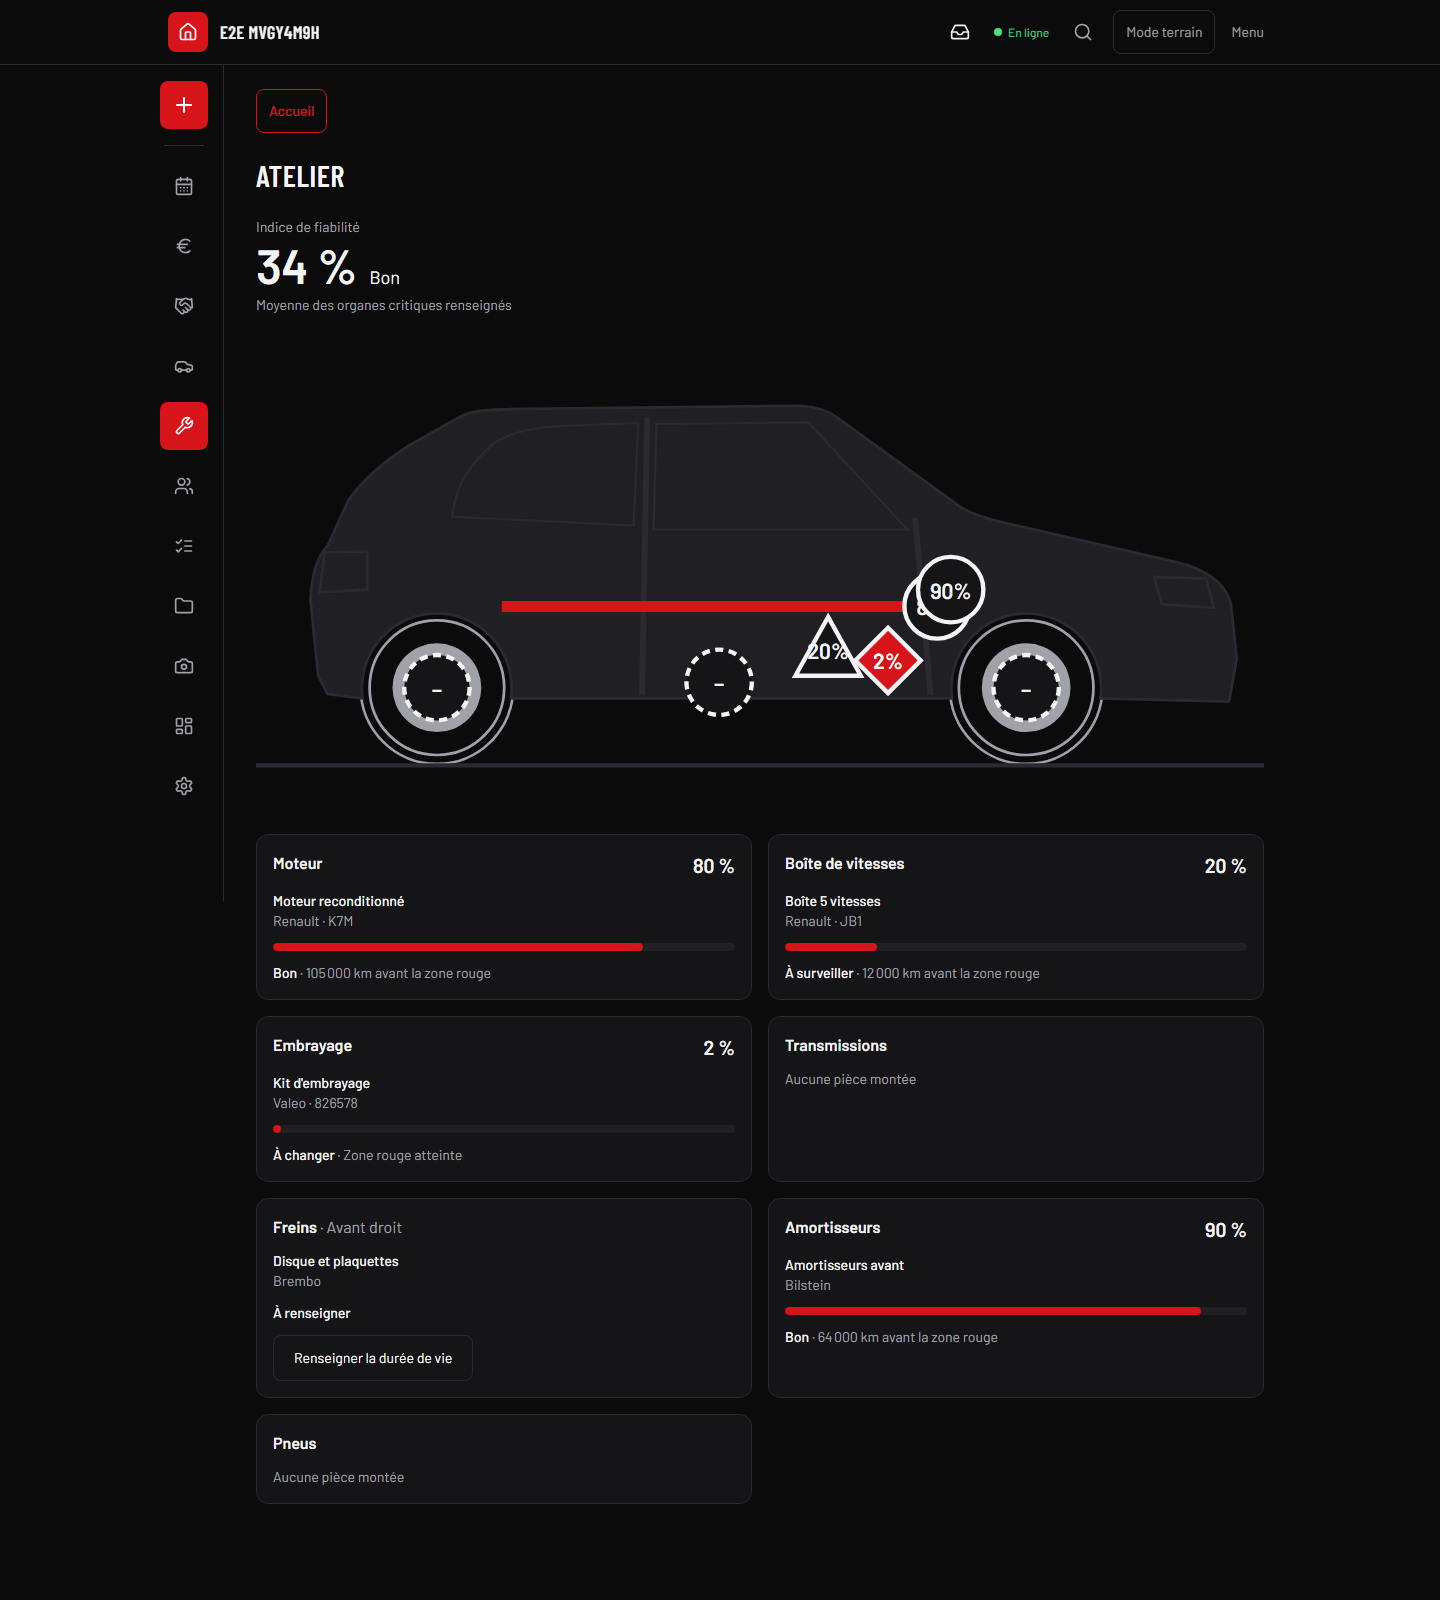
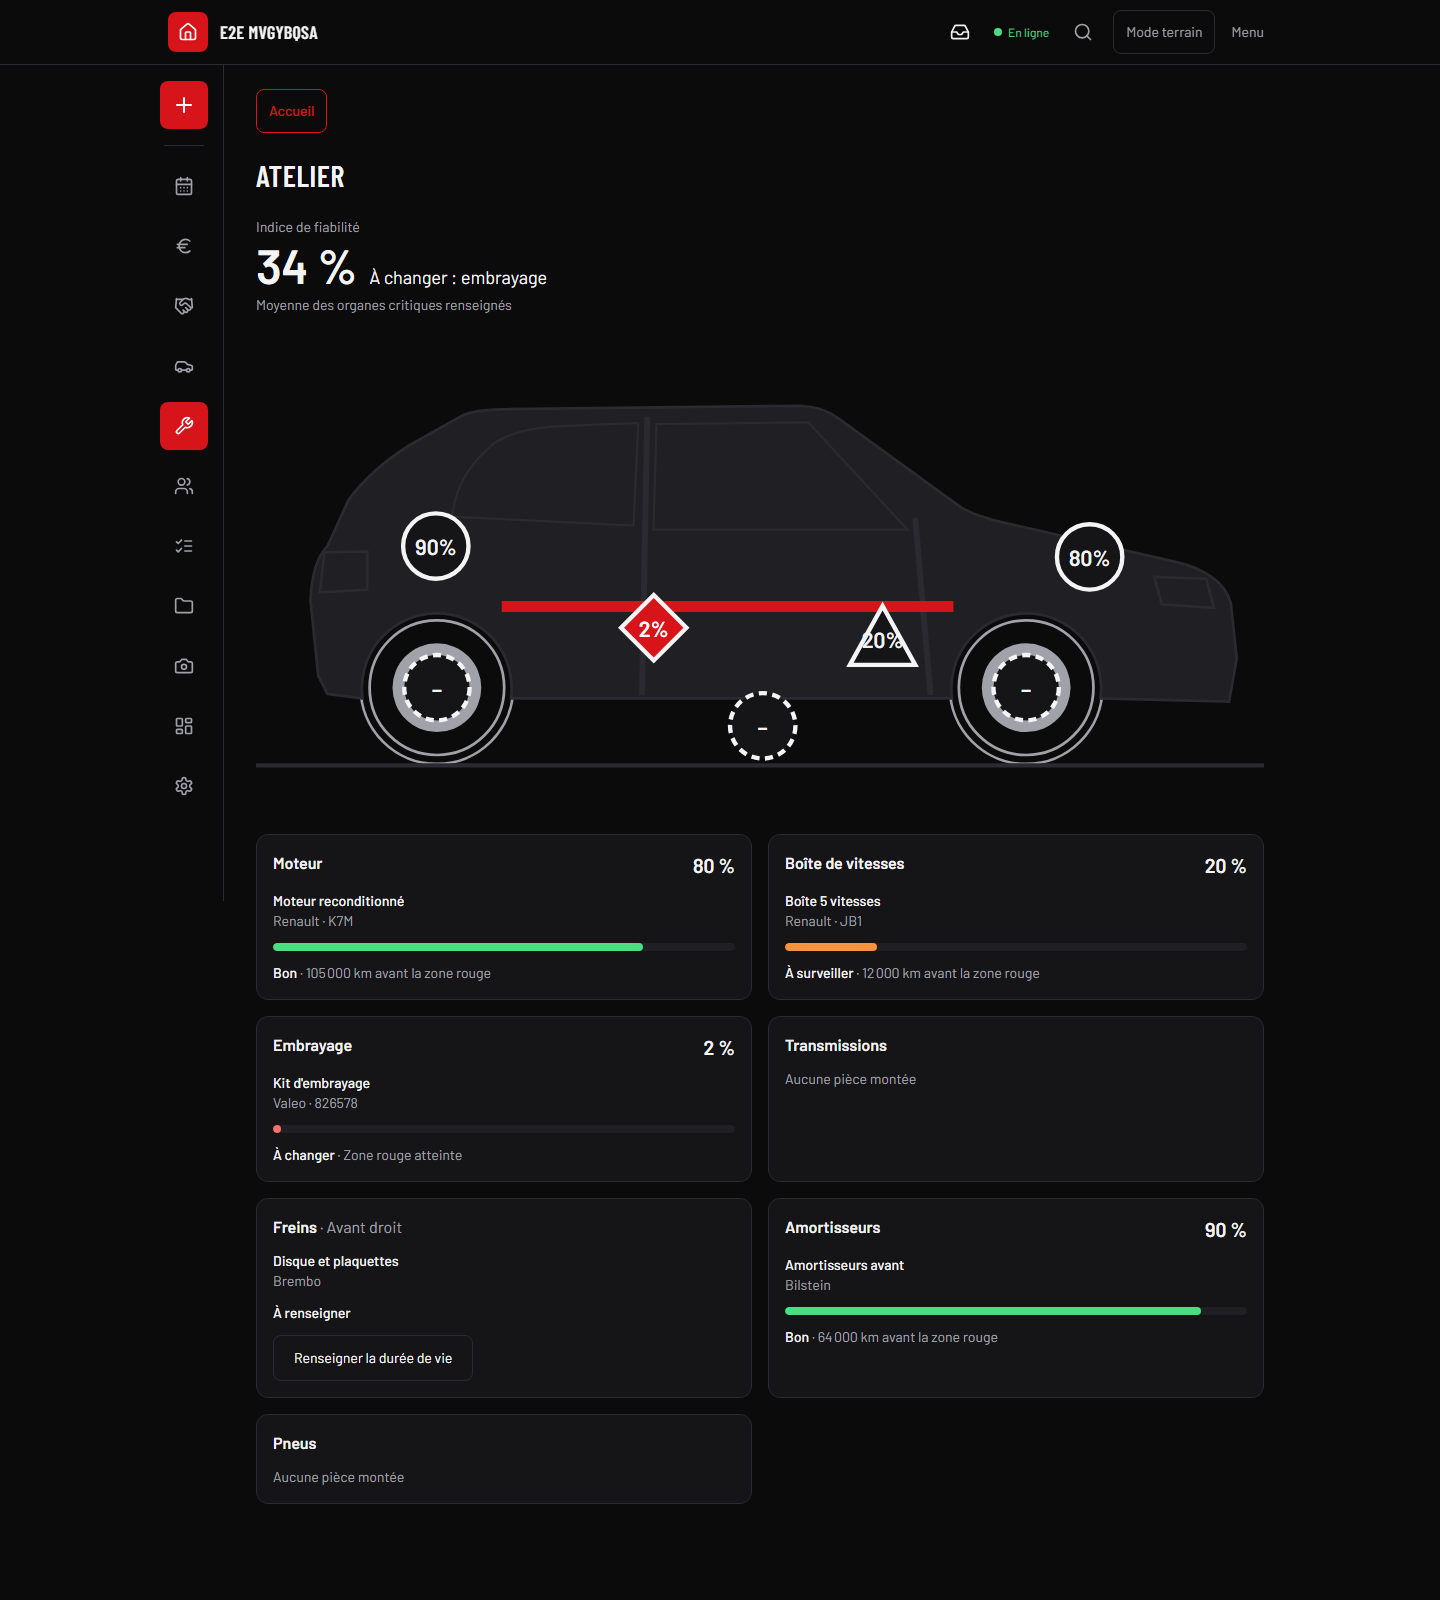
Garage : repères de l'atelier, mot de l'indice et jauges de zone
Repères déplacés sans chevauchement (test sur les cercles de contact, Saxo
et voiture générique). Téléphone : repère plus gros, sans pourcentage, zone de
contact de 44 px. Le mot de l'indice nomme le pire organe critique renseigné.
Jauges aux couleurs de zone du thème.

diff --git a/src/apps/garage/composants/atelier.tsx b/src/apps/garage/composants/atelier.tsx
@@ -1,6 +1,6 @@
 // Atelier (tâche 4.2, brief §1) : le choix de la voiture, l'indice de fiabilité, la silhouette avec un repère par organe,
-// puis une carte par organe. Rendu serveur ; seul le tiroir de durée de vie est un composant client. Le mot et le
-// pourcentage portent l'état ; la forme du repère porte la zone : jamais la couleur seule.
+// puis une carte par organe. Rendu serveur ; seul le tiroir de durée de vie est un composant client. La forme du repère
+// porte la zone, le pourcentage (au bureau) et le mot portent l'état ; jamais la couleur seule.
 
 import Link from "next/link"
 
@@ -8,8 +8,8 @@ import { Silhouette } from "@/components/silhouette/silhouette"
 import { aAuMoins, type Niveau } from "@/core/droits/niveaux"
 
 import type { OrganeAtelier, VehiculeAtelier, VehiculeChoisi } from "../lectures-serveur"
-import { libelleZone, ordreDesOrganes, phraseKmRestants, phraseManque, pourcentage, zoneIndice } from "../mise-en-forme"
-import type { PointSilhouette } from "../positions"
+import { libelleZone, ordreDesOrganes, phraseKmRestants, phraseManque, pourcentage } from "../mise-en-forme"
+import { RAYON_CONTACT_BUREAU, RAYON_CONTACT_TELEPHONE, type PointSilhouette } from "../positions"
 import type { Zone } from "../regles"
 
 import { FormulaireDuree } from "./formulaire-duree"
@@ -38,8 +38,8 @@ export function ChoixVehicule({ vehicules, choisi }: { vehicules: VehiculeChoisi
 
 // --- Indice de fiabilité -------------------------------------------------------------------
 
-export function IndiceBloc({ indice, manque }: { indice: number | null; manque: string[] }) {
-  const zone = zoneIndice(indice)
+// La moyenne se lit en grand ; le mot (le pire organe critique renseigné, calculé par la page) se lit à côté.
+export function IndiceBloc({ indice, mot, manque }: { indice: number | null; mot: string; manque: string[] }) {
   return (
     <section aria-labelledby="indice-fiabilite" className="flex flex-col gap-1">
       <h2 id="indice-fiabilite" className="text-sm text-texte-discret">
@@ -47,7 +47,7 @@ export function IndiceBloc({ indice, manque }: { indice: number | null; manque: 
       </h2>
       <p className="flex flex-wrap items-baseline gap-3">
         <span className="chiffre text-5xl font-semibold">{pourcentage(indice) ?? "—"}</span>
-        <span className="text-lg">{libelleZone(zone)}</span>
+        <span className="text-lg">{mot}</span>
       </p>
       <p className="text-sm text-texte-discret">
         {indice === null ? phraseManque(manque) : "Moyenne des organes critiques renseignés"}
@@ -58,11 +58,11 @@ export function IndiceBloc({ indice, manque }: { indice: number | null; manque: 
 
 // --- Silhouette et repères -----------------------------------------------------------------
 
-// Un repère par organe placé sur la silhouette. Sa forme donne la zone (rond, triangle, losange, rond pointillé), son
-// texte le pourcentage. Le repère est un lien vers la fiche organe, avec une zone de contact de 44 px au moins.
-const RAYON_REPERE = 12
-const RAYON_CONTACT = 22
+// Rayon visible du repère, en unités du plan : plus gros sur téléphone, où il ne porte que sa forme.
+const RAYON_REPERE_BUREAU = 12
+const RAYON_REPERE_TELEPHONE = 16
 
+// Forme de la zone : rond (vert), triangle (orange), losange (rouge), rond pointillé (à renseigner).
 function formeDuRepere(zone: Zone, x: number, y: number, r: number) {
   if (zone === "orange") {
     return <polygon points={`${x},${y - r} ${x + r},${y + r * 0.8} ${x - r},${y + r * 0.8}`} />
@@ -76,28 +76,37 @@ function formeDuRepere(zone: Zone, x: number, y: number, r: number) {
   return <circle cx={x} cy={y} r={r} />
 }
 
+// Un repère est un lien vers la fiche de l'organe. Le nom, le mot de la zone et le pourcentage sont dans son nom
+// accessible, à toutes les tailles. Deux variantes, une seule affichée : téléphone (plus gros, sans texte) et bureau.
 function RepereOrgane({ organe, point }: { organe: OrganeAtelier; point: PointSilhouette }) {
   const pct = organe.etat === null ? null : `${Math.round(organe.etat)}%`
   const libelle = `${organe.nom}, ${libelleZone(organe.zone)}${pct ? `, ${pct}` : ""}`
-  const rouge = organe.zone === "rouge"
-  const couleurTexte = rouge ? "var(--marque-texte)" : "var(--texte)"
+  const style = {
+    fill: organe.zone === "rouge" ? "var(--marque)" : "var(--surface)",
+    stroke: "var(--texte)",
+    strokeWidth: 1.6,
+  }
   return (
     <a href={`/apps/garage/organes/${organe.id}`} aria-label={libelle}>
-      <circle cx={point.x} cy={point.y} r={RAYON_CONTACT} fill="transparent" />
-      <g style={{ fill: rouge ? "var(--marque)" : "var(--surface)", stroke: "var(--texte)", strokeWidth: 1.6 }}>
-        {formeDuRepere(organe.zone, point.x, point.y, RAYON_REPERE)}
+      <g className="md:hidden">
+        <circle cx={point.x} cy={point.y} r={RAYON_CONTACT_TELEPHONE} fill="transparent" />
+        <g style={style}>{formeDuRepere(organe.zone, point.x, point.y, RAYON_REPERE_TELEPHONE)}</g>
       </g>
-      <text
-        x={point.x}
-        y={point.y}
-        textAnchor="middle"
-        dominantBaseline="central"
-        className="chiffre"
-        style={{ fontSize: 8, fontWeight: 600, fill: couleurTexte }}
-        aria-hidden="true"
-      >
-        {pct ?? "–"}
-      </text>
+      <g className="hidden md:block">
+        <circle cx={point.x} cy={point.y} r={RAYON_CONTACT_BUREAU} fill="transparent" />
+        <g style={style}>{formeDuRepere(organe.zone, point.x, point.y, RAYON_REPERE_BUREAU)}</g>
+        <text
+          x={point.x}
+          y={point.y}
+          textAnchor="middle"
+          dominantBaseline="central"
+          className="chiffre"
+          style={{ fontSize: 8, fontWeight: 600, fill: organe.zone === "rouge" ? "var(--marque-texte)" : "var(--texte)" }}
+          aria-hidden="true"
+        >
+          {pct ?? "–"}
+        </text>
+      </g>
     </a>
   )
 }
@@ -113,6 +122,13 @@ export function SilhouetteAtelier({ vehicule, silhouette, organes }: { vehicule:
 }
 
 // --- Cartes des organes --------------------------------------------------------------------
+
+// Couleur de la jauge : celle de la zone, dans les deux thèmes (jetons du socle, contraste ≥ 3:1 sur la surface).
+const COULEUR_ZONE: Partial<Record<Zone, string>> = {
+  vert: "var(--etat-ok)",
+  orange: "var(--etat-orange)",
+  rouge: "var(--etat-rouge)",
+}
 
 function Montage({ organe }: { organe: OrganeAtelier }) {
   if (organe.trainMonte) {
@@ -149,7 +165,10 @@ function CarteOrgane({ organe, peutEcrire }: { organe: OrganeAtelier; peutEcrire
 
       {organe.etat !== null && (
         <div role="img" aria-label={`État : ${pct}`} className="h-2 w-full overflow-hidden rounded-full bg-surface-2">
-          <div className="h-full rounded-full bg-marque" style={{ width: `${Math.min(100, Math.max(0, organe.etat))}%` }} />
+          <div
+            className="h-full rounded-full"
+            style={{ width: `${Math.min(100, Math.max(0, organe.etat))}%`, backgroundColor: COULEUR_ZONE[organe.zone] }}
+          />
         </div>
       )}
 

diff --git a/src/apps/garage/mise-en-forme.test.ts b/src/apps/garage/mise-en-forme.test.ts
@@ -1,6 +1,77 @@
 import { describe, expect, it } from "vitest"
 
-import { libelleZone, ordreDesOrganes, phraseKmRestants, phraseManque, pourcentage, zoneIndice } from "./mise-en-forme"
+import {
+  enumererOrganes,
+  libelleZone,
+  motIndice,
+  ordreDesOrganes,
+  phraseKmRestants,
+  phraseManque,
+  pourcentage,
+  zoneIndice,
+  type OrganeMot,
+} from "./mise-en-forme"
+
+const organe = (nom: string, zone: OrganeMot["zone"], extra: Partial<OrganeMot> = {}): OrganeMot => ({
+  nom,
+  critique: true,
+  pieceMontee: true,
+  zone,
+  ...extra,
+})
+
+describe("mot de l'indice", () => {
+  it("sans organe critique renseigné, « À renseigner »", () => {
+    expect(motIndice([])).toBe("À renseigner")
+    expect(motIndice([organe("Freins", "a_renseigner")])).toBe("À renseigner")
+    expect(motIndice([organe("Transmissions", "vert", { pieceMontee: false })])).toBe("À renseigner")
+  })
+
+  it("tous vert, « Bon »", () => {
+    expect(motIndice([organe("Moteur", "vert"), organe("Freins", "vert")])).toBe("Bon")
+  })
+
+  it("un rouge nomme l'organe : « À changer : embrayage »", () => {
+    expect(motIndice([organe("Moteur", "vert"), organe("Embrayage", "rouge")])).toBe("À changer : embrayage")
+  })
+
+  it("plusieurs rouges se comptent : « embrayage et 1 autre », « et 2 autres »", () => {
+    const deux = [organe("Embrayage", "rouge"), organe("Freins", "rouge"), organe("Moteur", "vert")]
+    expect(motIndice(deux)).toBe("À changer : embrayage et 1 autre")
+    const trois = [...deux, organe("Boîte de vitesses", "rouge")]
+    expect(motIndice(trois)).toBe("À changer : embrayage et 2 autres")
+  })
+
+  it("un orange, sans rouge : « À surveiller : boîte de vitesses »", () => {
+    expect(motIndice([organe("Moteur", "vert"), organe("Boîte de vitesses", "orange")])).toBe("À surveiller : boîte de vitesses")
+  })
+
+  it("le rouge l'emporte sur l'orange, qui n'est pas nommé", () => {
+    const organes = [organe("Boîte de vitesses", "orange"), organe("Embrayage", "rouge")]
+    expect(motIndice(organes)).toBe("À changer : embrayage")
+  })
+
+  it("un organe non critique, ou sans pièce montée, ne compte pas", () => {
+    expect(motIndice([organe("Amortisseurs", "rouge", { critique: false }), organe("Moteur", "vert")])).toBe("Bon")
+    expect(motIndice([organe("Transmissions", "rouge", { pieceMontee: false }), organe("Moteur", "vert")])).toBe("Bon")
+  })
+
+  it("l'exemple de la capture : 34 % et « À changer : embrayage »", () => {
+    const capture = [
+      organe("Moteur", "vert"),
+      organe("Boîte de vitesses", "orange"),
+      organe("Embrayage", "rouge"),
+      organe("Amortisseurs", "vert", { critique: false }),
+    ]
+    expect(motIndice(capture)).toBe("À changer : embrayage")
+  })
+
+  it("enumererOrganes : un nom seul, puis le premier et le nombre d'autres", () => {
+    expect(enumererOrganes(["Moteur"])).toBe("Moteur")
+    expect(enumererOrganes(["Moteur", "Freins"])).toBe("Moteur et 1 autre")
+    expect(enumererOrganes(["Moteur", "Freins", "Pneus"])).toBe("Moteur et 2 autres")
+  })
+})
 
 describe("mot de la zone", () => {
   it("écrit le mot de chaque zone, sur les seuils par défaut des pièces", () => {

diff --git a/src/apps/garage/positions.ts b/src/apps/garage/positions.ts
@@ -1,20 +1,27 @@
-// Positions des organes sur la silhouette (tâche 4.1, brief §1). Coordonnées de la viewBox de la vue droite du gabarit.
-// Par clé de gabarit, puis par clé d'organe par défaut (`cle`). Un organe ajouté par la team porte sa position en base
-// (garage_component_type.positions, même clé de gabarit). Sans position : l'organe n'a qu'une carte, sans point.
+// Positions des organes sur la silhouette (tâche 4.1, brief §1 ; corrigées en 4.2 après la validation de John sur les
+// captures). Coordonnées de la viewBox de la vue droite du gabarit. Par clé de gabarit, puis par clé d'organe par défaut
+// (`cle`). Un organe ajouté par la team porte sa position en base (garage_component_type.positions, même clé de gabarit).
+// Sans position : l'organe n'a qu'une carte, sans point.
 //
-// Choix provisoires, à valider sur l'écran en 4.2 : le profil de la Saxo est dessiné avec l'avant à droite (roue
-// avant en x = 282,7). Freins sur la roue avant, pneus sur la roue arrière : un seul point par organe par défaut.
+// Repères de la Saxo, d'avant en arrière : moteur dans le capot, boîte et embrayage sous l'habitacle avant, transmissions
+// entre les deux roues, amortisseurs au-dessus de la roue arrière, freins sur la roue avant, pneus sur la roue arrière.
 // Le gabarit générique reprend le dessin de la Saxo (même viewBox, mêmes vues) : mêmes positions.
+
+// Rayon de la zone de contact d'un repère, en unités du plan. Au bureau, 22. Sur téléphone, le repère est plus gros :
+// 25 unités, soit 44 px pour la Saxo affichée sur 328 px (370 unités). Les cercles de contact ne se coupent jamais,
+// à la taille téléphone : un test le vérifie.
+export const RAYON_CONTACT_BUREAU = 22
+export const RAYON_CONTACT_TELEPHONE = 25
 
 export type PointSilhouette = { x: number; y: number }
 
 const POSITIONS_SAXO: Record<string, PointSilhouette> = {
-  moteur: { x: 250, y: 84 },
-  boite: { x: 210, y: 100 },
-  embrayage: { x: 232, y: 104 },
-  transmissions: { x: 170, y: 112 },
+  moteur: { x: 306, y: 66 },
+  boite: { x: 230, y: 96 },
+  embrayage: { x: 146, y: 92 },
+  transmissions: { x: 186, y: 128 },
   freins: { x: 282.7, y: 114 },
-  amortisseurs: { x: 255, y: 78 },
+  amortisseurs: { x: 66, y: 62 },
   pneus: { x: 66.4, y: 114 },
 }
 

diff --git a/src/apps/garage/mise-en-forme.ts b/src/apps/garage/mise-en-forme.ts
@@ -38,6 +38,33 @@ export function phraseKmRestants(km: number | null): string | null {
   return `${new Intl.NumberFormat("fr-FR").format(Math.round(km))} km avant la zone rouge`
 }
 
+// Organe vu par le mot de l'indice : seuls comptent les critiques avec une pièce montée et un état connu (comme la moyenne).
+export type OrganeMot = { nom: string; critique: boolean; pieceMontee: boolean; zone: Zone }
+
+const RANG_ZONE: Record<Zone, number> = { a_renseigner: 0, vert: 1, orange: 2, rouge: 3 }
+
+// Nom d'organe dans une phrase : l'initiale en minuscule (« boîte de vitesses »).
+function dansUnePhrase(nom: string): string {
+  return nom.charAt(0).toLocaleLowerCase("fr-FR") + nom.slice(1)
+}
+
+// Liste de noms, à la française : « embrayage », « embrayage et 1 autre », « embrayage et 2 autres ».
+export function enumererOrganes(noms: string[]): string {
+  if (noms.length === 1) return noms[0]
+  return `${noms[0]} et ${noms.length - 1} autre${noms.length > 2 ? "s" : ""}`
+}
+
+// Mot de l'indice : le pire organe critique renseigné. Un rouge l'emporte sur un orange, et le mot nomme les organes de
+// cette zone. Sans rouge ni orange, « Bon » ; sans organe retenu, « À renseigner ».
+export function motIndice(organes: OrganeMot[]): string {
+  const retenus = organes.filter((o) => o.critique && o.pieceMontee && o.zone !== "a_renseigner")
+  if (retenus.length === 0) return LIBELLE_ZONE.a_renseigner
+  const pire = retenus.reduce<Zone>((zone, o) => (RANG_ZONE[o.zone] > RANG_ZONE[zone] ? o.zone : zone), "vert")
+  if (pire === "vert") return LIBELLE_ZONE.vert
+  const noms = retenus.filter((o) => o.zone === pire).map((o) => dansUnePhrase(o.nom))
+  return `${LIBELLE_ZONE[pire]} : ${enumererOrganes(noms)}`
+}
+
 // Ce qui manque à l'indice quand il n'y en a pas : les organes critiques sans pièce, par leur nom.
 export function phraseManque(noms: string[]): string {
   if (noms.length === 0) return "Aucun organe critique sans pièce montée."

diff --git a/src/apps/garage/positions.test.ts b/src/apps/garage/positions.test.ts
@@ -1,6 +1,6 @@
 import { describe, expect, it } from "vitest"
 
-import { pointPourOrgane, pointValide } from "./positions"
+import { pointPourOrgane, pointValide, RAYON_CONTACT_TELEPHONE } from "./positions"
 import { TYPES_DEFAUT } from "./types-defaut"
 
 // viewBox de la vue droite de la Saxo : « 0 -14 370 173 ». Les gabarits partagent ce dessin.
@@ -51,7 +51,21 @@ describe("position enregistrée par la team", () => {
 
   it("une valeur invalide est ignorée, et la position par défaut prend le relais", () => {
     const invalide = { citadine_3p_saxo: { x: "cent", y: 50 } }
-    expect(pointPourOrgane("citadine_3p_saxo", { cle: "moteur", positions: invalide })).toEqual({ x: 250, y: 84 })
+    expect(pointPourOrgane("citadine_3p_saxo", { cle: "moteur", positions: invalide })).toEqual({ x: 306, y: 66 })
+  })
+
+  // À la taille téléphone (le plus gros des deux rayons de contact), deux cercles de contact ne se coupent pas.
+  it("à la taille du repère, les cercles de contact ne se coupent pas, pour la Saxo et la voiture générique", () => {
+    for (const gabarit of ["citadine_3p_saxo", "voiture_generique"]) {
+      const points = TYPES_DEFAUT.map((type) => pointPourOrgane(gabarit, { cle: type.cle, positions: null }))
+      expect(points.every((point) => point !== null)).toBe(true)
+      for (let i = 0; i < points.length; i++) {
+        for (let j = i + 1; j < points.length; j++) {
+          const distance = Math.hypot(points[i]!.x - points[j]!.x, points[i]!.y - points[j]!.y)
+          expect(distance, `${gabarit} : ${TYPES_DEFAUT[i].cle} et ${TYPES_DEFAUT[j].cle}`).toBeGreaterThan(2 * RAYON_CONTACT_TELEPHONE)
+        }
+      }
+    }
   })
 })
 

diff --git a/src/app/(app)/apps/garage/page.tsx b/src/app/(app)/apps/garage/page.tsx
@@ -4,6 +4,7 @@ import { Lock, Wrench } from "lucide-react"
 import { accesEcran } from "@/apps/garage/ecran"
 import { CartesOrganes, ChoixVehicule, IndiceBloc, SilhouetteAtelier } from "@/apps/garage/composants/atelier"
 import { listerVehiculesAtelier, lireVehiculeAtelier } from "@/apps/garage/lectures-serveur"
+import { motIndice } from "@/apps/garage/mise-en-forme"
 import { EcranVide } from "@/components/qg/ecran-vide"
 
 // Atelier du Garage (tâche 4.2, brief §1) : la voiture choisie dans l'URL (la première par défaut), son indice, sa
@@ -32,6 +33,9 @@ export default async function PageAtelier({ searchParams }: { searchParams: Prom
   if (!atelier) notFound()
 
   const noms = atelier.organes.filter((o) => atelier.sansPiece.includes(o.id)).map((o) => o.nom)
+  const mot = motIndice(
+    atelier.organes.map((o) => ({ nom: o.nom, critique: o.critique, pieceMontee: Boolean(o.piece || o.trainMonte), zone: o.zone })),
+  )
 
   return (
     <section className="flex max-w-5xl flex-col gap-6">
@@ -40,7 +44,7 @@ export default async function PageAtelier({ searchParams }: { searchParams: Prom
         {vehicules.length > 1 && <ChoixVehicule vehicules={vehicules} choisi={choisi.id} />}
       </header>
 
-      <IndiceBloc indice={atelier.indice} manque={noms} />
+      <IndiceBloc indice={atelier.indice} mot={mot} manque={noms} />
 
       {atelier.silhouette ? (
         <SilhouetteAtelier vehicule={choisi.nomCourt} silhouette={atelier.silhouette} organes={atelier.organes} />

diff --git a/e2e/garage-atelier.spec.ts b/e2e/garage-atelier.spec.ts
@@ -34,10 +34,18 @@ test("captures · l'atelier de la Saxo, à 1440 et à 360 px", async ({ page, eq
   await page.goto(`/apps/garage?vehicule=${vehicleId}`)
   await expect(page.getByRole("heading", { name: "Atelier", exact: true })).toBeVisible()
   await expect(page.getByRole("group", { name: /^Silhouette de Saxo 2, vue droite/ })).toBeVisible()
+  await expect(page.getByText("À changer : embrayage", { exact: true })).toBeVisible()
+  await expect(page.getByRole("link", { name: "Embrayage, À changer, 2%" })).toBeVisible()
   await capturer(page, "garage-atelier-1440.png")
 
   await page.setViewportSize(TELEPHONE)
   await expect(page.getByRole("heading", { name: "Atelier", exact: true })).toBeVisible()
+  // Téléphone : le repère porte la forme seule, et sa zone de contact fait au moins 44 px.
+  const repere = page.getByRole("link", { name: "Embrayage, À changer, 2%" })
+  await expect(repere).toBeVisible()
+  const cible = await repere.boundingBox()
+  expect(cible?.width ?? 0, "cible du repère à 360 px").toBeGreaterThanOrEqual(44)
+  expect(cible?.height ?? 0, "cible du repère à 360 px").toBeGreaterThanOrEqual(44)
   const deborde = await page.evaluate(() => document.documentElement.scrollWidth > document.documentElement.clientWidth)
   expect(deborde, "défilement horizontal sur la page").toBe(false)
   await capturer(page, "garage-atelier-360.png")
